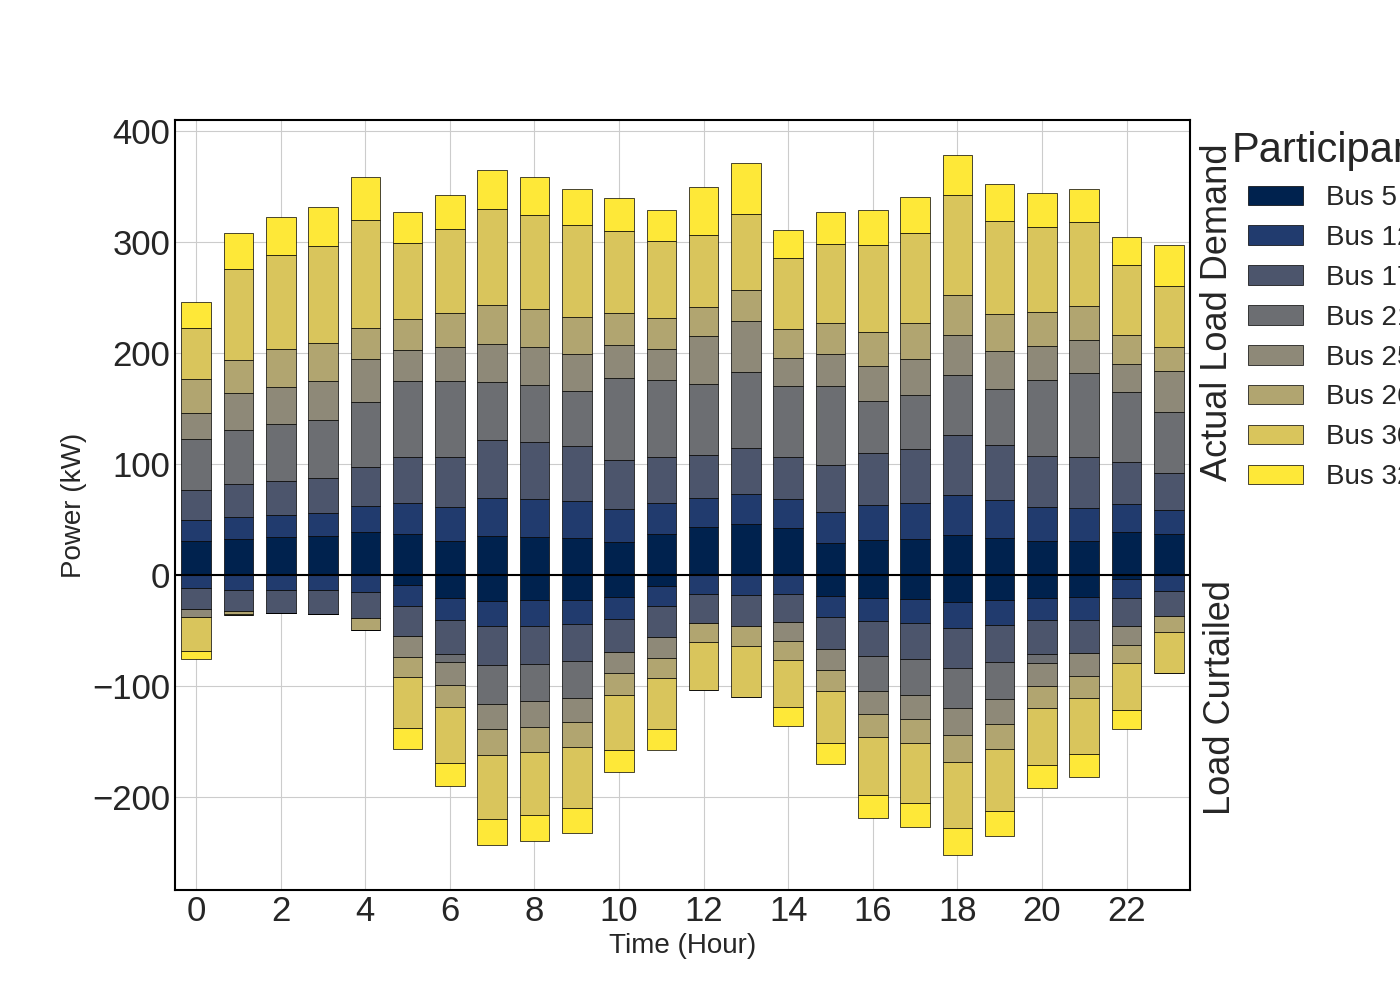
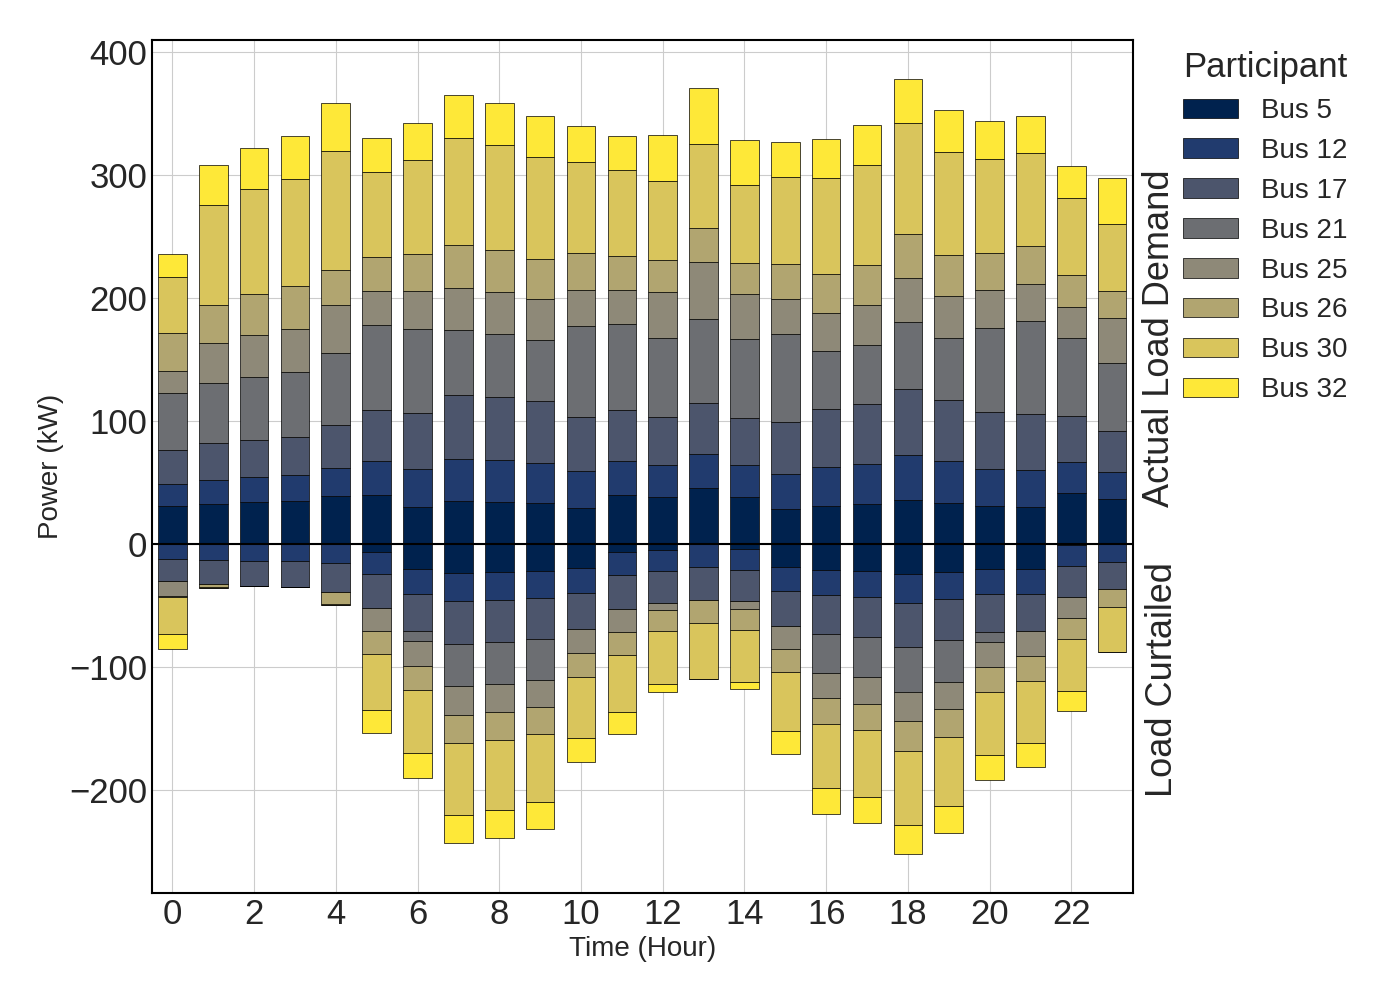
final plot

diff --git a/new_simulation.py b/new_simulation.py
@@ -1018,7 +1018,7 @@ def plot_dr_stacked_bar(schedule_df, dr_participants, net, total_load_forecast, 
     """
     # MODIFIED: Increased base font size for better readability
     plt.style.use('seaborn-v0_8-whitegrid')
-    plt.rcParams.update({'font.size': 30})
+    plt.rcParams.update({'font.size': 25})
 
     hours = schedule_df.index
     base_loads_p = net.load.set_index('bus')['p_mw']
@@ -1082,7 +1082,7 @@ def plot_dr_stacked_bar(schedule_df, dr_participants, net, total_load_forecast, 
 
     # MODIFIED: Set the annotation text to the new right-hand axis
     ax2.set_ylabel('Actual Load Demand', fontsize=26)
-    ax2.yaxis.set_label_coords(1.01, 0.75) # Position the label
+    ax2.yaxis.set_label_coords(1.01, 0.65) # Position the label
     
     # MODIFIED: We will create the second label with a text box instead
     ax.text(1.03, 0.25, 'Load Curtailed', transform=ax.transAxes, 
@@ -1090,7 +1090,7 @@ def plot_dr_stacked_bar(schedule_df, dr_participants, net, total_load_forecast, 
 
     # MODIFIED: Improved legend formatting
     ax.legend(title='Participant',
-              bbox_to_anchor=(1.03, 1), # Position legend outside the plot
+              bbox_to_anchor=(1.04, 1), # Position legend outside the plot
               loc='upper left',
               borderaxespad=0.)
 
